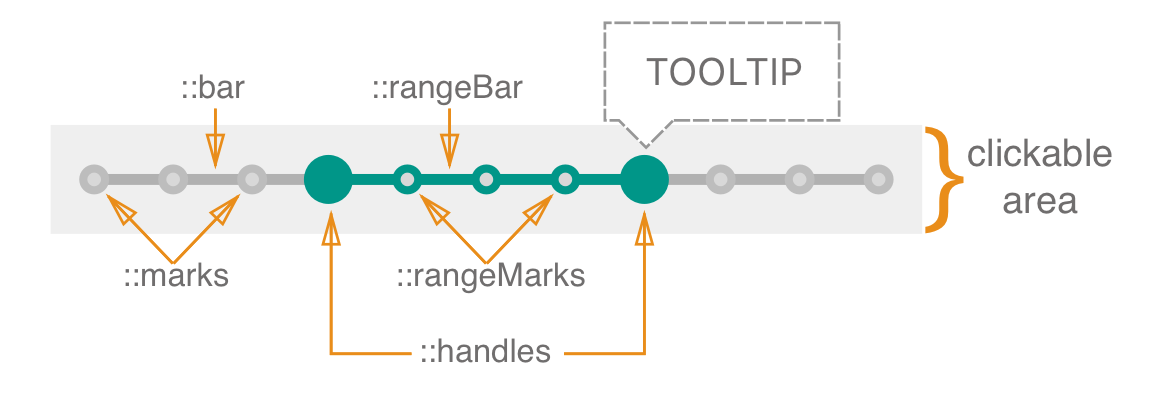
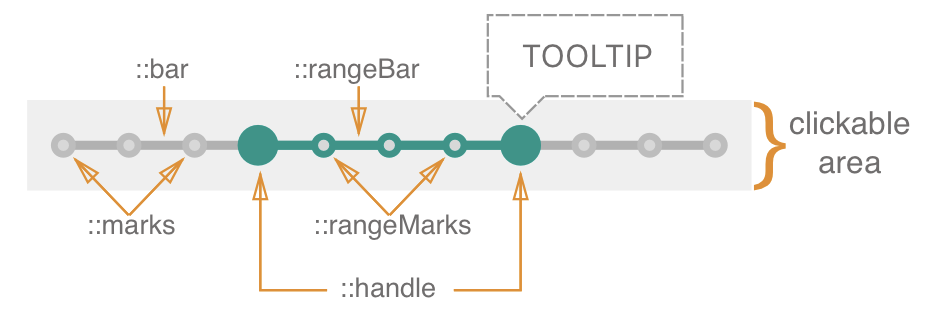
changes to the range slider component + tooltip + fixes from Nadav

diff --git a/docs/range-slider/README.md b/docs/range-slider/README.md
@@ -8,50 +8,36 @@ A **range slider** is an input where the user selects a range of values from wit
 
 ![elements](./assets/elements.png)
 
+A **Range Slider** is composed of the following elements: "bar", "handle", "rangeBar", "marks", "rangeMarks", "tooltip". The "handle" is dragged across the "bar" in order to give the range slider a desired value, while "rangeBar" shows the range between values. "Tooltip" is used to show the current value.
+
+The value steps are indicated by marks and rangeMarks.
+
+You can display a tooltip (e.g. to display current value) by adding a child element with the relevant data-slot (data-slot="tooltip").
 
 
-The handles are dragged across the bar in order to give the slider a desired range. Marks and range marks are representing the step. Clickable area represents the area where user can interact with slider (e.g. drag handles & change range) 
-
-**Range Slider consists of:** 
-::bar - represents sliders given range 
-::rangeBar - represents selected range from within a slider given range
-::handles - are dragged across the bar in order to set / change range
-::marks - represent step
-::rangeMarks - represents step that it displayed within ::rangeBar	
 
 ### API
 
 #### Props
 
-| name         | type                                  | defaultValue | isRequired | description                              |
-| ------------ | ------------------------------------- | ------------ | ---------- | ---------------------------------------- |
-| value        | array of numbers                      | [2, 5]       |            | Difference between values represent slider's selected range. |
-| disableCross | bool                                  | false        |            | Prevents handles to cross                |
-| axis         | enum: 'x' 'x-reverse' 'y' 'y-reverse' | 'x'          |            | The axis on which the slider will slide  |
-| min          | number                                | 0            |            | The absolute minimum of the slider's range |
-| max          | number                                | 1            |            | The absolute maximum of the slider's range |
-| step         | number OR string "any"                | 1            |            | Set the slider's step. If step = "number" it causes slider to move in discrete increments. If step = "any" sliders moves along a subjective range |
-| disabled     | bool                                  | false        |            | If true, the slider will not be interactive |
-| label        | string                                |              |            | Text to display in accessibility mode    |
-| name         | string                                |              |            | The name of the slider. Behaves like the name attribute of an input element |
-| marks        | bool                                  | false        |            | Controls the visibility of the marks     |
-| onChange     | func                                  |              | yes        | Callback function that is fired when the slider's value changed. Signature: `function(event: object, newValue: number): void` event: KeyDown event targeting the slider. newValue: The new value of the slider. |
-| onDragStart  | func                                  |              |            | Callback function that is fired when the slider has begun to move. Signature `function(event: object) : void` event: MouseDown or TouchStart event targeting the slider. |
-| onDragStop   | func                                  |              |            | Callback function that is fired when the slide has stopped moving. Signature `function(event: object) : void` event: MouseEnd or TouchEnd event targeting the slider. |
-| error        | bool                                  | false        |            | Sets the `:error` CSS state on the `<slider>` |
-| rtl          | bool                                  | false        |            | Makes the component RTL                  |
-
-
-
-#### Accepted Children
-
-> TBD (need to decide on how to implement tooltip)
-
-This component accepts children with the following `data-slot` attribute, in order to be displayed in specific places in its layout ( in this case child position is connected to ::handle)
-
-| data-slot | description                              | example                                  |
-| --------- | ---------------------------------------- | ---------------------------------------- |
-| tooltip   | Allows you to insert a component (or components) above the input | `<div data-slot="tooltip">hello world</div>` |
+| name            | type                                     | defaultValue | isRequired | description                              |
+| --------------- | ---------------------------------------- | ------------ | ---------- | ---------------------------------------- |
+| value           | array of numbers                         | [2, 5]       |            | Difference between values represent slider's selected range. |
+| disableCross    | bool                                     | false        |            | Prevents handles to cross                |
+| axis            | 'x'<br>'x-reverse'<br>'y'<br>'y-reverse' | 'x'          |            | The axis on which the slider will slide  |
+| min             | number                                   | 0            |            | The absolute minimum of the slider's range |
+| max             | number                                   | 1            |            | The absolute maximum of the slider's range |
+| step            | number OR string "any"                   | 1            |            | Set the slider's step. If step = "number" it causes slider to move in discrete increments. If step = "any" sliders moves along a subjective range |
+| disabled        | bool                                     | false        |            | If true, the slider will not be interactive |
+| label           | string                                   |              |            | Text to display in accessibility mode    |
+| name            | string                                   |              |            | The name of the slider. Behaves like the name attribute of an input element |
+| displayMarks    | bool                                     | false        |            | Controls the visibility of the marks     |
+| displayTooltip  | bool                                     | false        |            | Controls the visibility of the tooltip   |
+| tooltipPosition | string                                   | top          |            | Controls the position of the tooltip. <br> Supports the following options: `top`, `bottom`, `left`, `right` |
+| onChange        | `(event: {value: number}): void`         |              | yes        | Callback function that is fired when the slider's value changed. |
+| onDragStart     | `(event: PointerEvent): void`            |              |            | Callback function that is fired when the handle has begun to move. |
+| onDragStop      | ` event: PointerEvent): void`            |              |            | Callback function that is fired when the handle has stopped moving. |
+| onDrag          | ` event: PointerEvent): void`            |              |            | Callback function that is fired when the handle is moving. |
 
 
 
@@ -131,13 +117,14 @@ Comments to example 2
 | ::rangeBar   | Allows to style the section of the bar that represents selected range |                                          |
 | ::marks      | Allows to style marks that are shown on the ::bar section of the slider | by default ::marks use the same background color as ::bar |
 | ::rangeMarks | Allows to style marks that are shown on the :rangeBar section of the slider | by default ::rangeMarks use the same background color as ::rangeBar |
+| ::tooltip    | Allows to style the tooltip              |                                          |
 
 ### Custom CSS States (pseudo-classes)
 
-| state                          | description                              |
-| ------------------------------ | ---------------------------------------- |
-| :error                         | Style the component on error, i.e. when the `error` prop is true |
-| :hover, :focus, :disabled, etc | standard CSS pseudo state                |
+| state                          | description                            |
+| ------------------------------ | -------------------------------------- |
+| :error                         | Style the error state of the component |
+| :hover, :focus, :disabled, etc | Standard CSS pseudo state              |
 
 
 

diff --git a/docs/range-slider/range-slider-spec.md b/docs/range-slider/range-slider-spec.md
@@ -37,17 +37,11 @@ A **range slider** is an input where the user selects a range of values from wit
 
 ![elements](./assets/elements.png)
 
-The handles are dragged across the bar in order to give the slider a desired range. Marks and range marks are representing the step. Clickable area represents the area where user can interact with slider (e.g. drag handles & change range) 
+A **Range Slider** is composed of the following elements: "bar", "handle", "rangeBar", "marks", "rangeMarks", "tooltip". The "handle" is dragged across the "bar" in order to give the range slider a desired value, while "rangeBar" shows the range between values. "Tooltip" is used to show the current value.
 
-**Range Slider consists of:** 
-::bar - represents sliders given range 
-::rangeBar - represents selected range from within a given range
-::handles - are dragged across the bar in order to set/change range
-::marks - represent step
-::rangeMarks - represent step that it displayed within ::rangeBar	
+The value steps are indicated by marks and rangeMarks.
 
-> TBD (need to decide on how to implement tooltip)
-> Also, you can display tooltip (e.g. to display current value) by adding child DOM element with relevant data-slot (data-slot="tooltip")
+You can display a tooltip (e.g. to display current value) by adding a child element with the relevant data-slot (data-slot="tooltip").
 
 
 
@@ -125,45 +119,36 @@ http://ilyabirman.net/meanwhile/all/slider/
 
 ## Behavior
 
-In order to change/set range, user can:
+In order to change the value, user can:
 
-1. drag handles over the slider bar; 
-2. click on the slider bar, mark or clickable area;
-3. click & drag  (click = click on handle, slider, mark or clickable area).
+1. drag handle over the slider bar
+2. click on the slider bar, mark OR clickable area to select the value from the range
+3. click & drag (click = click on handle, slider, mark & clickable area)
 
-Changing the value is performed **from current value** to the next expected value. 
-E.g. if `min=0`, `max=10`, `step=2`, `value=3.5`, than Up Arrow Key will give us 4 and Down Arrow Key will give us 2.
-Value can not exceed min/max limits. If value is > or < than min/max it is automatically set to corresponding min/max.
+Changing the value is performed **from current value** to the next expected value. E.g. if min=0, max=10, step=2, value=3.5, then UP arrow key will give us 4 and Down arrow key will give us 2 Value can not exceed the min/max limits. If value is > or < than min/max it is automatically set to corresponding min/max.
 
-If range slider has a `step` prop set to "number", handles should move across the slider bar only according to the step.
-
-When user clicks/taps on slider bar we move the handle that is closer to selected value OR handle with lower value.  
-
-E.g.
-
-1. If `min=0`, `max=10`, `step=1`, `value=3, 7`, then when user clicks/taps on 8 we move handle that represents value 7 (no matter what handle is in focus right now). 
-2. If `min=0`, `max=10`, `step=1`, `value=3, 7`, then when user clicks/taps on 5 we move handle that represents value 3  (no matter what handle is in focus right now). 
-
-NOTE: active handle should immediately obtain focus.
-
-**Crossing handles**
-You can prevent handles from crossing using `	disableCross` prop. Handles can not push each other (they either cross or stop before the next/previous handle).
-
-If use is trying to set min/max value to one handle, allowed min/max value is determine either by sliders range or by next/previous handle. 
+If slider has a step prop set to "number", handle should move across the slider bar only according to the step.
 
 **Alignment & Direction**
 
-You can adjust sliders alignment and direction in which the range is going to change with `axis` prop.
+You can adjust sliders alignment and direction in which the range is going to change with axis prop.
 
-1. `axis="x"` -> horizontal slider, progress is moving from left to right;
+1. `axis="x"` -> horizontal slider, progress is moving from left to right
+2. `axis="x-reverse"` -> horizontal slider, progress is moving from right to left
+3. `axis="y"` -> vertical slider, progress is moving from bottom to top
+4. `axis="y-reverse"` -> vertical slider, progress is moving from top to bottom
 
-2. `axis="x-reverse"` -> horizontal slider, progress is moving from right to left;
+**Tooltip**
 
-3. `axis="y"` -> vertical slider, progress is moving from bottom to top;
+To enable tooltip, set `displayTooltip` prop to `true`. Tooltip position can be changed with `tooltipPosition` prop that accepts the following values `top`, `bottom`, `left`, `right`.
+Default position for the tooltip is `top` NOTE: this is relevant for both horizontal & vertical position.
 
-4. `axis="y-reverse"` -> vertical slider, progress is moving from top to bottom.
+Tooltip is shown on:
 
-   
+1. Hover over the "handle"
+2. Focus over the "handle"
+
+See [sample slider](https://ant.design/components/slider/).
 
 #### Validation
 
